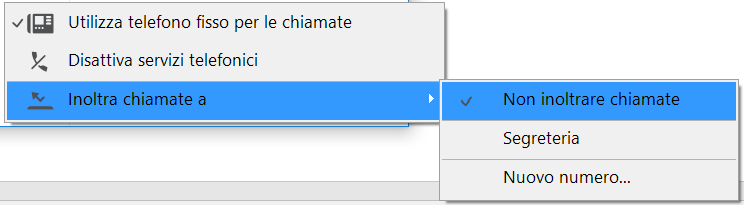
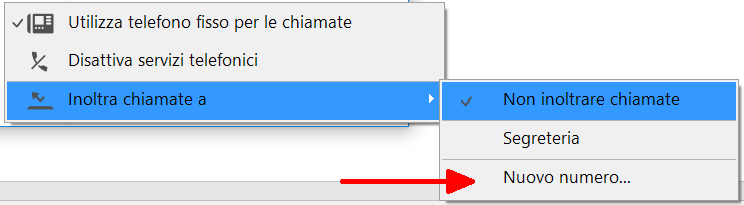
varie

Changed region(s): [[0.4328, 0.8195, 0.6492, 0.9366]]

diff --git a/index.html b/index.html
@@ -13,6 +13,18 @@
     <link rel="stylesheet" href="//cdn.jsdelivr.net/npm/docsify-themeable@0/dist/css/theme-simple.css">
     <!-- <link rel="stylesheet" href="./asset/css/vue.css"> -->
     <!--  "//unpkg.com/docsify/lib/themes/vue.css"-->
+    <style>
+      :root {
+        /* Reduce the font size */
+         --base-font-size: 14px; 
+    
+        /* Change the theme color hue */
+        /* --theme-hue: 325; */
+    
+        /* Change the sidebar bullets */
+        /* --sidebar-nav-link-before-content: '😀'; */
+      }
+    </style>
   </head>
 
   <body>
@@ -28,11 +40,15 @@
         coverpage: true,
         onlyCover: true,
         basePath: '/',
+        themeable: {
+          readyTransition: true, // default
+          responsiveTables: true  // default
+        },
         search: {
           maxAge: 86400000, // Expiration time, the default one day
-          search:'auto',
-          paths: ["/soft/lotus2/"],
-          /*paths: ["/soft/client-server/ACSOR/", "/soft/appWeb/Agenda-Cultura/", "/soft/lotus/Agende-Web/",
+          search: 'auto',
+          // paths: ["/soft/lotus2/"]
+          paths: ["/soft/client-server/ACSOR/", "/soft/appWeb/Agenda-Cultura/", "/soft/lotus/Agende-Web/",
             "/soft/lotus/Anagrafe-PM/", "/soft/client-server/Servizi-On-Line-Prenotazione-Orti/",
             "/soft/lotus/Archivio-PM-DB-circolari-e-disposizioni-interne/",
             "/soft/lotus/Gestione-licenze-taxi-e-NCC/", "/soft/lotus/Autorizzazioni-Mobilità/",
@@ -78,7 +94,7 @@
             "/soft/client-server/SISM2-2-Sistema-informativo-servizi-scolastici/",
             "/soft/lotus/Verbali-Di-Commissioni-Consigliare/", "/soft/lotus/VERBALI-DI-CONSIGLIO/",
             "/soft/lotus/Verbali-di-polizia-giudiziaria/"
-          ],*/
+          ],
           placeholder: 'Type to search',
           noData: 'No Results!',
           // Headline depth, 1 - 6
@@ -89,10 +105,12 @@
           //namespace: 'website-1',
         },
         alias: {
-           '/soft/lotus/_sidebar.md': '/_sidebar.md'
+          '/soft/lotus/_sidebar.md': '/_sidebar.md'
         }
       }
     </script>
+    <!-- docsify-themeable (latest v0.x.x) -->
+    <script src="https://cdn.jsdelivr.net/npm/docsify-themeable@0"></script>
     <script src="//unpkg.com/docsify/lib/docsify.min.js"></script>
     <script src="//unpkg.com/docsify/lib/plugins/search.min.js"></script>
     <!-- <script src="https://unpkg.com/docsifyfooter@1"></script> -->

diff --git a/soft/lotus/installazione.md b/soft/lotus/installazione.md
@@ -1,23 +1,17 @@
-## installazione
+# installazione
 
-### installazione2
+## Il passaggio standard del Lorem Ipsum, utilizzato sin dal sedicesimo secolo
 
-[Gov.it- lista app](http://basidati.agid.gov.it/catalogo/amm?code=c_a944)
+"Lorem ipsum dolor sit amet, consectetur adipiscing elit, sed do eiusmod tempor incididunt ut labore et dolore magna aliqua. Ut enim ad minim veniam, quis nostrud exercitation ullamco laboris nisi ut aliquip ex ea commodo consequat. Duis aute irure dolor in reprehenderit in voluptate velit esse cillum dolore eu fugiat nulla pariatur. Excepteur sint occaecat cupidatat non proident, sunt in culpa qui officia deserunt mollit anim id est laborum."
 
-**descrizione:** Gestore Interpellanze e Domande d'attualità
+## La sezione 1.10.32 del "de Finibus Bonorum et Malorum", scritto da Cicerone nel 45 AC
 
-1. **descrizioneAPP:** Gestore Interpellanze e Domande d'attualità
-2. **produttoreApp:** Engineering
-3. **licenzaApp:** Proprietario
-4. **titoloBaseDati:** Interpellanze e Domande d'attualità
-5. **formato:** DB Lotus Domino
-6. **soggetto:** Servizi interni
-7. **codice_bd:** 12531
+"Sed ut perspiciatis unde omnis iste natus error sit voluptatem accusantium doloremque laudantium, totam rem aperiam, eaque ipsa quae ab illo inventore veritatis et quasi architecto beatae vitae dicta sunt explicabo. Nemo enim ipsam voluptatem quia voluptas sit aspernatur aut odit aut fugit, sed quia consequuntur magni dolores eos qui ratione voluptatem sequi nesciunt. Neque porro quisquam est, qui dolorem ipsum quia dolor sit amet, consectetur, adipisci velit, sed quia non numquam eius modi tempora incidunt ut labore et dolore magnam aliquam quaerat voluptatem. Ut enim ad minima veniam, quis nostrum exercitationem ullam corporis suscipit laboriosam, nisi ut aliquid ex ea commodi consequatur? Quis autem vel eum iure reprehenderit qui in ea voluptate velit esse quam nihil molestiae consequatur, vel illum qui dolorem eum fugiat quo voluptas nulla pariatur?"
 
-### installazione3
+## Traduzione del 1914 di H. Rackham
 
-### Installazione4
+"But I must explain to you how all this mistaken idea of denouncing pleasure and praising pain was born and I will give you a complete account of the system, and expound the actual teachings of the great explorer of the truth, the master-builder of human happiness. No one rejects, dislikes, or avoids pleasure itself, because it is pleasure, but because those who do not know how to pursue pleasure rationally encounter consequences that are extremely painful. Nor again is there anyone who loves or pursues or desires to obtain pain of itself, because it is pain, but because occasionally circumstances occur in which toil and pain can procure him some great pleasure. To take a trivial example, which of us ever undertakes laborious physical exercise, except to obtain some advantage from it? But who has any right to find fault with a man who chooses to enjoy a pleasure that has no annoying consequences, or one who avoids a pain that produces no resultant pleasure?"
 
-chi installa
+## La sezione 1.10.33 del "de Finibus Bonorum et Malorum", scritto da Cicerone nel 45 AC
 
-procedura
+"At vero eos et accusamus et iusto odio dignissimos ducimus qui blanditiis praesentium voluptatum deleniti atque corrupti quos dolores et quas molestias excepturi sint occaecati cupiditate non provident, similique sunt in culpa qui officia deserunt mollitia animi, id est laborum et dolorum fuga. Et harum quidem rerum facilis est et expedita distinctio. Nam libero tempore, cum soluta nobis est eligendi optio cumque nihil impedit quo minus id quod maxime placeat facere possimus, omnis voluptas assumenda est, omnis dolor repellendus. Temporibus autem quibusdam et aut officiis debitis aut rerum necessitatibus saepe eveniet ut et voluptates repudiandae sint et molestiae non recusandae. Itaque earum rerum hic tenetur a sapiente delectus, ut aut reiciendis voluptatibus maiores alias consequatur aut perferendis doloribus asperiores repellat."

diff --git a/soft/lotus.md b/soft/lotus.md
@@ -2,14 +2,27 @@
 
 Lotus è tuttora l'ambiente software nel quale molti applicativi sono eseguiti
 
-## [installazione](/soft/lotus/installazione)
+## installazione
 
 Lotus è installato con il master, ma va configurato dai referenti [link](/soft/lotus/ ':target=_blank')
 
-Nella sezione si tratta:
+### Il passaggio standard del Lorem Ipsum, utilizzato sin dal sedicesimo secolo
+
+"Lorem ipsum dolor sit amet, consectetur adipiscing elit, sed do eiusmod tempor incididunt ut labore et dolore magna aliqua. Ut enim ad minim veniam, quis nostrud exercitation ullamco laboris nisi ut aliquip ex ea commodo consequat. Duis aute irure dolor in reprehenderit in voluptate velit esse cillum dolore eu fugiat nulla pariatur. Excepteur sint occaecat cupidatat non proident, sunt in culpa qui officia deserunt mollit anim id est laborum."
+
+### La sezione 1.10.32 del "de Finibus Bonorum et Malorum", scritto da Cicerone nel 45 AC
+
+"Sed ut perspiciatis unde omnis iste natus error sit voluptatem accusantium doloremque laudantium, totam rem aperiam, eaque ipsa quae ab illo inventore veritatis et quasi architecto beatae vitae dicta sunt explicabo. Nemo enim ipsam voluptatem quia voluptas sit aspernatur aut odit aut fugit, sed quia consequuntur magni dolores eos qui ratione voluptatem sequi nesciunt. Neque porro quisquam est, qui dolorem ipsum quia dolor sit amet, consectetur, adipisci velit, sed quia non numquam eius modi tempora incidunt ut labore et dolore magnam aliquam quaerat voluptatem. Ut enim ad minima veniam, quis nostrum exercitationem ullam corporis suscipit laboriosam, nisi ut aliquid ex ea commodi consequatur? Quis autem vel eum iure reprehenderit qui in ea voluptate velit esse quam nihil molestiae consequatur, vel illum qui dolorem eum fugiat quo voluptas nulla pariatur?"
+
+### Traduzione del 1914 di H. Rackham
+
+"But I must explain to you how all this mistaken idea of denouncing pleasure and praising pain was born and I will give you a complete account of the system, and expound the actual teachings of the great explorer of the truth, the master-builder of human happiness. No one rejects, dislikes, or avoids pleasure itself, because it is pleasure, but because those who do not know how to pursue pleasure rationally encounter consequences that are extremely painful. Nor again is there anyone who loves or pursues or desires to obtain pain of itself, because it is pain, but because occasionally circumstances occur in which toil and pain can procure him some great pleasure. To take a trivial example, which of us ever undertakes laborious physical exercise, except to obtain some advantage from it? But who has any right to find fault with a man who chooses to enjoy a pleasure that has no annoying consequences, or one who avoids a pain that produces no resultant pleasure?"
+
+### La sezione 1.10.33 del "de Finibus Bonorum et Malorum", scritto da Cicerone nel 45 AC
+
+"At vero eos et accusamus et iusto odio dignissimos ducimus qui blanditiis praesentium voluptatum deleniti atque corrupti quos dolores et quas molestias excepturi sint occaecati cupiditate non provident, similique sunt in culpa qui officia deserunt mollitia animi, id est laborum et dolorum fuga. Et harum quidem rerum facilis est et expedita distinctio. Nam libero tempore, cum soluta nobis est eligendi optio cumque nihil impedit quo minus id quod maxime placeat facere possimus, omnis voluptas assumenda est, omnis dolor repellendus. Temporibus autem quibusdam et aut officiis debitis aut rerum necessitatibus saepe eveniet ut et voluptates repudiandae sint et molestiae non recusandae. Itaque earum rerum hic tenetur a sapiente delectus, ut aut reiciendis voluptatibus maiores alias consequatur aut perferendis doloribus asperiores repellat."
 
 ## elenco dei più importanti applicativi
-
 * Commissioni Consiliari
 * [Gare e Contratti](/soft/lotus/Gestione-delle-Gare-e-dei-Contratti/)
 * Gare e Contratti - Contratti In Lavorazione

diff --git a/telelavoro/smart-working/jabber.md b/telelavoro/smart-working/jabber.md
@@ -17,27 +17,28 @@ e inserire la password. Se non va verificare l’abilitazione con Ufficio Reti (
 
     ![fig.04](/img/jabber-04.png)
 
-## Accettare le richieste a video
-
-1. a
-
+4. Accettare le richieste a video
     ![fig.05](/img/jabber-05.png)
 
     ![fig.06](/img/jabber-06.png)
 
-2. Al riavvio del programma andare nelle impostazioni per attivare l’avvio automatico e configurare il calendario
+5. Al riavvio del programma andare nelle impostazioni per attivare l’avvio automatico e configurare il calendario
 
-    ![fig.07](/img/jabber-07.png)
+    ![fig.07](/img/jabber-10.png)
 
     ![fig.08](/img/jabber-08.png)
 
     ![fig.09](/img/jabber-09.png)
 
-Per abilitare l’inoltro sul cellulare, cliccare sull’icona a forma di telefono e selezionare.
-INOLTRA CHIAMATE A NUOVO NUMERO
-Digitare il numero di telefono preceduto da “0”
+## calendario e inoltro chiamate
 
-![fig.10](/img/jabber-10.png)
+Per abilitare l’inoltro sul cellulare:
+
+- cliccare sull’icona a forma di telefono e selezionare.
+- INOLTRA CHIAMATE A NUOVO NUMERO
+- Digitare il numero di telefono preceduto da “0”
+  
+![fig.11-a](/img/jabber-10B.png)
 
 ![fig.11](/img/jabber-11.png)
 

diff --git a/soft/lotus/Gestione-delle-Gare-e-dei-Contratti/README.md b/soft/lotus/Gestione-delle-Gare-e-dei-Contratti/README.md
@@ -1,6 +1,6 @@
-# Gestione delle Gare e dei Contratti
+## **Gestione delle Gare e dei Contratti**
 
-## Gov.it
+### Gov.it
 
 [Gov.it- lista app](http://basidati.agid.gov.it/catalogo/amm?code=c_a944)
 
@@ -14,24 +14,24 @@
 6. **soggetto:** Atti amministrativi
 7. **codice_bd:** 12533
 
-## In Comune
+### In Comune
 
-### Installazione
+#### Installazione
 
 chi installa
 
 procedura
 
-### Gesione utenti
+#### Gesione utenti
 
 chi se ne occupa
 
-### Persone particolarmente esperte
+#### Persone particolarmente esperte
 
 ### Settori che utilizzano il software
 
-## FAQ
+### FAQ
 
-### Domanda1
+#### Domanda1
 
 risposta
